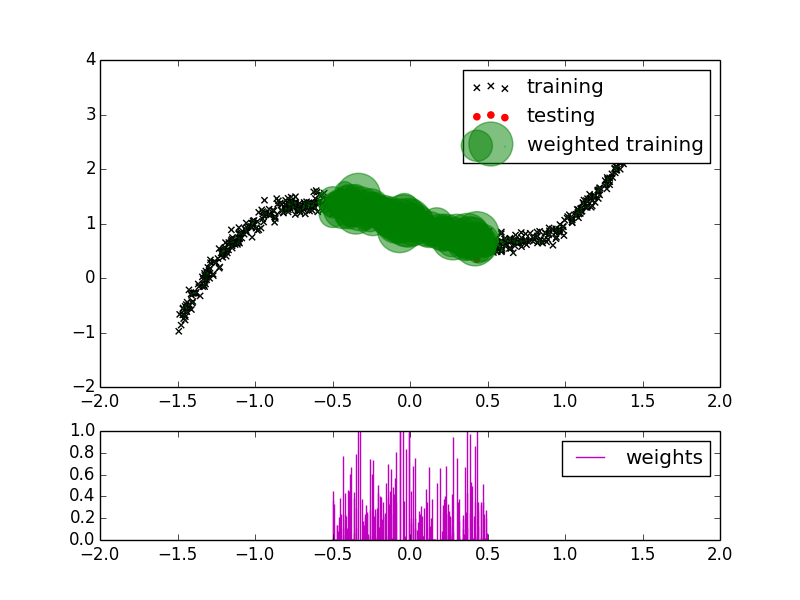
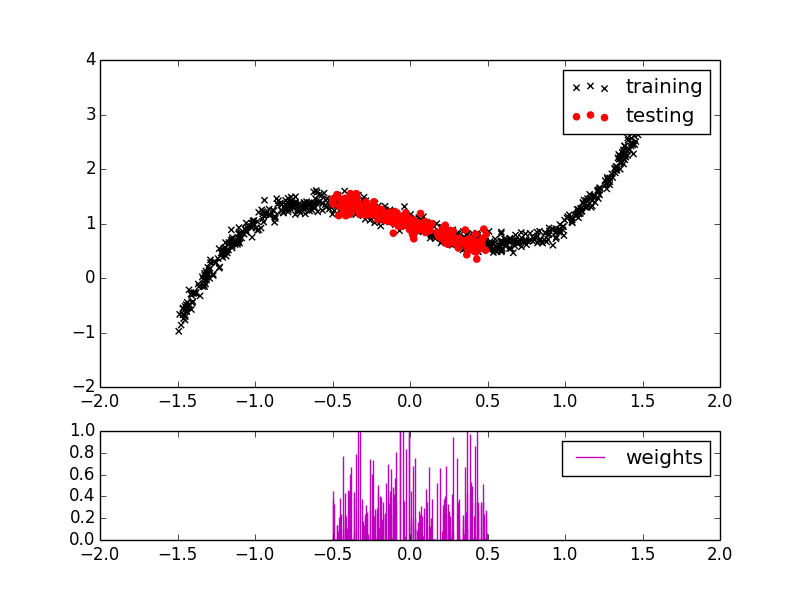
result new

diff --git a/src/test_model.py b/src/test_model.py
@@ -67,8 +67,7 @@ if __name__ == '__main__':
     ax1.hold(True)
     ax1.scatter(x_tr, y_tr, color='black', marker='x')
     ax1.scatter(x_te, y_te, color='red')
-    ax1.scatter(x_tr, y_tr, color='green', s=res.flatten()*100, alpha=0.5)
-    ax1.legend(('training', 'testing', 'weighted training'))
+    ax1.legend(('training', 'testing'))
     xlim = ax1.get_xlim()
     ax2.vlines(x_tr, 0, res.flatten()/res.max(), color='m')
     ax2.set_xlim(xlim)

diff --git a/src/demo_kmm.py b/src/demo_kmm.py
@@ -14,8 +14,7 @@ if __name__ == '__main__':
     ax1.hold(True)
     ax1.scatter(xtr, ytr, color='black', marker='x')
     ax1.scatter(xte, yte, color='red')
-    ax1.scatter(xtr, ytr, color='green', s=coef*100, alpha=0.5)
-    ax1.legend(('training', 'testing', 'weighted training'))
+    ax1.legend(('training', 'testing'))
     xlim = ax1.get_xlim()
     ax2.vlines(xtr, 0, coef.flatten()/coef.max(), color='m')
     ax2.set_xlim(xlim)
